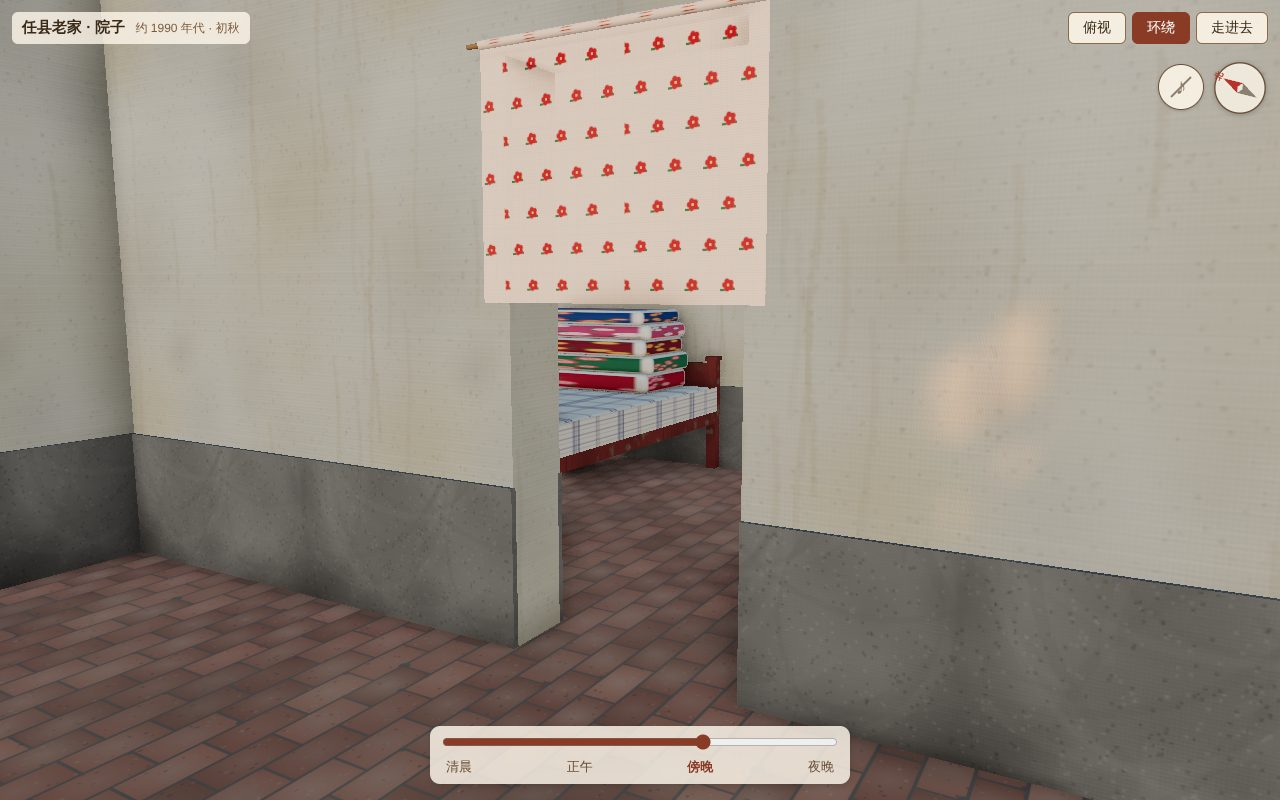
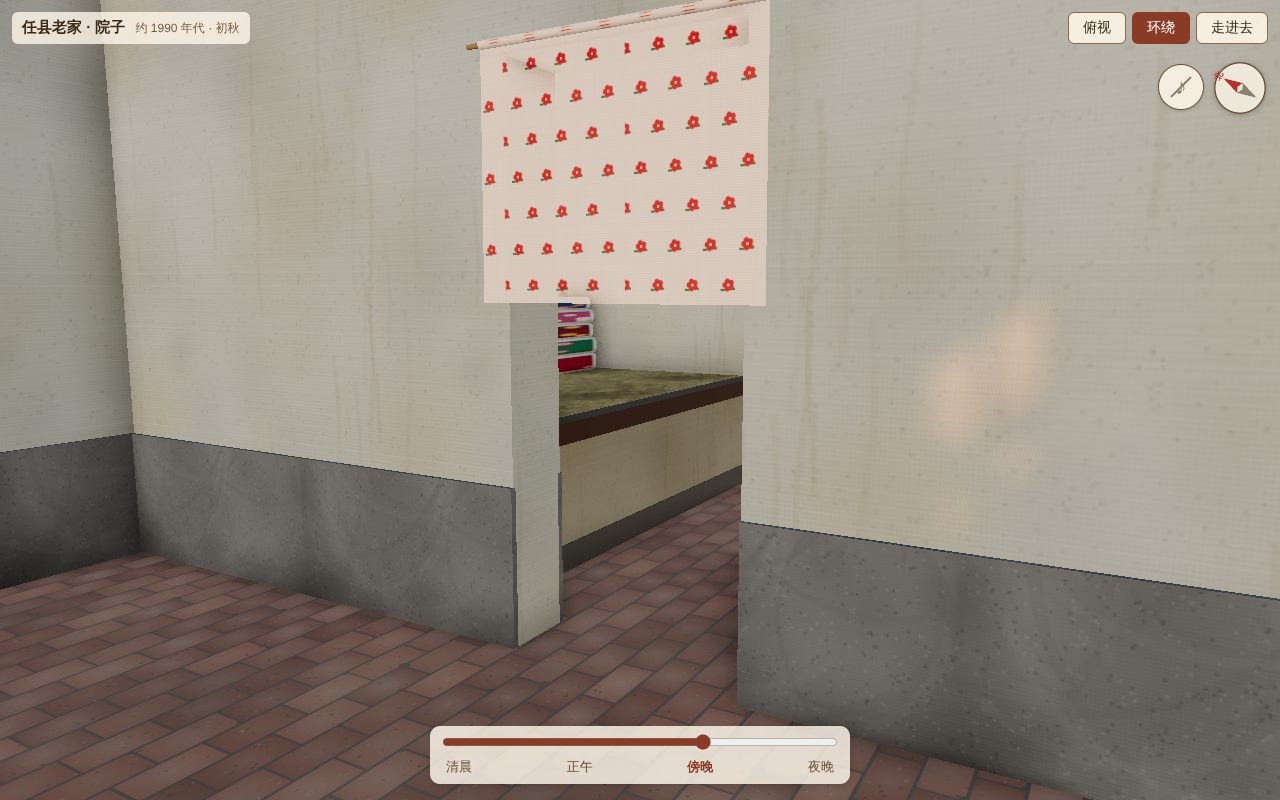
里屋改回第一版的炕（木头床也不对）
- 炕：西顶隔墙、东顶东墙、北顶后墙，从北墙往南 1.85 m、高 0.62 m；炕席、炕沿木头、炕脸抹灰
- 被子东头靠后墙摞着，两个“喜”字枕头在被子上；拉线开关回到炕头前沿上方（z = 1.45）
- 墙面、水泥墙裙、旧砖地、窗、海报、水缸、蜡烛器具都不变
- 更新 spec（v22）、CLAUDE.md、平面图、截图

Claude-Session: https://claude.ai/code/session_01HJLasCaBTePKwEqSFahTsZ

Changed region(s): [[0.4375, 0.3438, 0.5938, 0.7188]]

diff --git a/src/interiors/northWest.js b/src/interiors/northWest.js
@@ -11,7 +11,7 @@ import { createWaterVat } from '../yard/waterVat.js';
  * 西北屋室内（挂在 interior-anchor-west 上；坐标原点 = 室内西北角、地坪面，+x 东、+z 南）：
  * - 墙刷大白，年深日久发黄发脏；墙根往上 0.55 m 抹水泥；地面铺磨旧的淡红砖
  * - 一道隔墙把屋子分成西边的外屋（六成）和东边的里屋（四成），隔墙上一个小门洞，挂半截白布门帘（织着小红花），人走过去会被撩开
- * - 里屋北边一张老木头床，西头挨着隔墙、东头挨着东墙；铺着褥子和老粗布床单，床尾摞着几床八九十年代的缎子被面棉花被，床头两个枕头
+ * - 里屋北边一铺炕（西顶隔墙、东顶东墙、北顶后墙），铺炕席，炕沿一根木头；东头靠后墙叠着几床八九十年代的缎子被面棉花被和两个枕头
  * - 床头隔墙上一个拉线开关，拉一下屋顶的灯泡亮（15 瓦上下的白炽灯，昏黄），再拉一下灭；这面墙上贴着三张八九十年代的女明星海报（画的，不是真人）
  * - 南墙：西南角一口水缸，往东两台做蜡烛的器具（按用户照片），东头煤球炉 + 一锅化开的蜡；南墙上一扇窗；南墙和那片顶棚被烟火熏黑
  */
@@ -172,31 +172,40 @@ function floorTex() {
   );
 }
 
-/** 老粗布床单：白底，蓝、红细条交织成格子，洗得发旧 */
-function sheetTex() {
+/** 炕席：高粱秆/苇子篾编的人字纹，发黄发旧 */
+function reedMat() {
   return canvasTex(
     256,
     256,
     (g, w, h) => {
-      const r = rng(43);
-      g.fillStyle = '#e8e2d4';
+      const r = rng(11);
+      g.fillStyle = '#c4a466';
       g.fillRect(0, 0, w, h);
-      const stripes = (vertical) => {
-        for (const [pos, wd, col] of [[20, 10, '58,86,140'], [36, 4, '170,50,50'], [46, 10, '58,86,140'], [148, 6, '58,86,140'], [160, 3, '170,50,50']]) {
-          g.fillStyle = `rgba(${col},0.55)`;
-          if (vertical) g.fillRect(pos, 0, wd, h);
-          else g.fillRect(0, pos, w, wd);
+      const s = 16; // 一根篾子宽
+      for (let y = 0; y < h; y += s / 2) {
+        for (let x = 0; x < w; x += s) {
+          const dir = (Math.floor(x / s) + Math.floor(y / (s / 2))) % 4 < 2;
+          const k = 0.85 + r() * 0.25;
+          g.fillStyle = `rgb(${206 * k},${170 * k},${104 * k})`;
+          g.save();
+          g.translate(x + s / 2, y + s / 4);
+          g.rotate(dir ? Math.PI / 4 : -Math.PI / 4);
+          g.fillRect(-s * 0.7, -s * 0.2, s * 1.4, s * 0.4);
+          g.strokeStyle = 'rgba(80,60,30,0.35)';
+          g.strokeRect(-s * 0.7, -s * 0.2, s * 1.4, s * 0.4);
+          g.restore();
         }
-      };
-      stripes(true);
-      stripes(false);
-      // 粗布的纱线疙瘩
-      for (let i = 0; i < 3000; i++) {
-        g.fillStyle = r() > 0.5 ? 'rgba(255,255,250,0.12)' : 'rgba(120,110,90,0.1)';
-        g.fillRect(r() * w, r() * h, 1 + r() * 2, 1);
+      }
+      // 睡出来的油亮、发暗的地方
+      for (let i = 0; i < 30; i++) {
+        const gr = g.createRadialGradient(r() * w, r() * h, 0, r() * w, r() * h, 20 + r() * 60);
+        gr.addColorStop(0, 'rgba(90,60,30,0.18)');
+        gr.addColorStop(1, 'rgba(90,60,30,0)');
+        g.fillStyle = gr;
+        g.fillRect(0, 0, w, h);
       }
     },
-    { repeat: [6, 3.5] }, // 褥子是 0..1 UV：约 0.45 m 一格
+    { repeat: [2.6, 2.2] },
   );
 }
 
@@ -765,64 +774,25 @@ export function createNorthWestInterior() {
   hemTop.position.set(cx, dh + 0.03, dz);
   group.add(hemTop);
 
-  // —— 木头床：靠北墙，西头挨着隔墙、东头挨着东墙；旧枣红漆，床头板高、床尾板低 ——
-  const BD = R.bed;
-  const bx0 = IX0 + tc + 0.005;
-  const bx1 = IX1 - tc - 0.005;
-  const bz0 = tc + 0.01;
-  const bz1 = bz0 + BD.width;
-  const topY = BD.height; // 床板面
-  const wood = mat('wood');
-  const P = 0.065; // 床腿（立柱）见方
-  const solidOff = { solid: false };
-  // 四根立柱：床头（西）两根到床头板顶，床尾（东）两根到床尾板顶
-  for (const [x, top] of [[bx0, BD.head], [bx1 - P, BD.foot]]) {
-    for (const z of [bz0, bz1 - P]) {
-      group.add(box(x, x + P, 0, top, z, z + P, wood, solidOff));
-      group.add(box(x - 0.008, x + P + 0.008, top, top + 0.025, z - 0.008, z + P + 0.008, wood, solidOff)); // 柱头
-    }
-  }
-  // 床帮：前后两根大方子，两头两根横撑
-  group.add(box(bx0 + P, bx1 - P, topY - 0.17, topY - 0.03, bz1 - 0.05, bz1, wood, solidOff));
-  group.add(box(bx0 + P, bx1 - P, topY - 0.17, topY - 0.03, bz0, bz0 + 0.05, wood, solidOff));
-  for (const x of [bx0 + P, bx1 - P - 0.05]) group.add(box(x, x + 0.05, topY - 0.17, topY - 0.03, bz0 + P, bz1 - P, wood, solidOff));
-  // 床板：几块宽木板横着铺
-  {
-    const plank = mat('oldWood');
-    const n = 6;
-    const L = bx1 - bx0 - 2 * P;
-    for (let i = 0; i < n; i++) {
-      const x0 = bx0 + P + (i * L) / n;
-      group.add(box(x0 + 0.004, x0 + L / n - 0.004, topY - 0.03, topY, bz0 + 0.05, bz1 - 0.05, plank, solidOff));
-    }
-  }
-  // 床头板（挨着隔墙）、床尾板（挨着东墙）：框 + 中间一块芯板
-  for (const [x, top] of [[bx0, BD.head], [bx1 - P, BD.foot]]) {
-    const xc = x + P / 2;
-    group.add(box(xc - 0.018, xc + 0.018, topY + 0.04, top - 0.02, bz0 + P, bz1 - P, wood, solidOff));
-    group.add(box(xc - 0.025, xc + 0.025, top - 0.08, top - 0.02, bz0 + P, bz1 - P, wood, solidOff)); // 上横档
-    group.add(box(xc - 0.025, xc + 0.025, topY + 0.02, topY + 0.07, bz0 + P, bz1 - P, wood, solidOff)); // 下横档
-  }
-  // 褥子 + 老粗布床单（前沿垂下来一截）
-  const sheetMat = new THREE.MeshStandardMaterial({ map: sheetTex(), roughness: 0.95 });
-  {
-    const mx0 = bx0 + P + 0.01;
-    const mx1 = bx1 - P - 0.01;
-    const pad = new THREE.Mesh(new RoundedBoxGeometry(mx1 - mx0, 0.07, BD.width - 0.04, 3, 0.03), sheetMat);
-    pad.position.set((mx0 + mx1) / 2, topY + 0.035, (bz0 + bz1) / 2);
-    pad.castShadow = pad.receiveShadow = true;
-    group.add(pad);
-    const drape = new THREE.Mesh(new THREE.PlaneGeometry(mx1 - mx0, 0.16), sheetMat);
-    drape.position.set((mx0 + mx1) / 2, topY - 0.01, bz1 + 0.012);
-    drape.receiveShadow = true;
-    group.add(drape);
-  }
-  // 挡人：一个看不见的盒子
-  const bedBlock = box(bx0, bx1, 0, topY + 0.07, bz0, bz1, new THREE.MeshBasicMaterial({ visible: false }));
-  bedBlock.name = 'wooden-bed';
-  group.add(bedBlock);
+  // —— 炕 ——
+  const K = R.kang;
+  // 炕：西顶隔墙、东顶东墙、北顶后墙；炕脸抹灰（比墙面略暗）
+  const kang = box(IX0 + tc, IX1 - tc, 0, K.height, tc, K.depth, new THREE.MeshStandardMaterial({ map: plasterMap, color: 0xd2c6b2, roughness: 1 }));
+  kang.name = 'kang';
+  group.add(kang);
+  // 炕席
+  const reed = new THREE.MeshStandardMaterial({ map: reedMat(), roughness: 0.85 });
+  const mt = new THREE.Mesh(new THREE.BoxGeometry(IX1 - IX0 - 2 * tc - 0.02, 0.006, K.depth - tc - 0.06), reed);
+  mt.position.set((IX0 + IX1) / 2, K.height + 0.003, (K.depth + tc) / 2 - 0.02);
+  mt.receiveShadow = true;
+  group.add(mt);
+  // 炕沿：一根磨得发亮的木头
+  const edgeMat = new THREE.MeshStandardMaterial({ color: 0x5a3a24, roughness: 0.45 });
+  group.add(box(IX0 + tc, IX1 - tc, K.height - 0.07, K.height + 0.02, K.depth - 0.1, K.depth + 0.01, edgeMat, { solid: false }));
+  // 炕脸下沿踢脚的一道泥灰（脏）
+  group.add(box(IX0 + tc, IX1 - tc, 0, 0.12, K.depth, K.depth + 0.006, new THREE.MeshStandardMaterial({ color: 0x6e655a, roughness: 1 }), { solid: false }));
 
-  // —— 被子摞在床尾（东头），枕头在床头（西头，挨着隔墙） ——
+  // —— 被子：东头靠后墙叠着 ——
   {
     const covers = [
       ['#b3192a', '#e86a86', '#f3a6b4', 3],
@@ -831,21 +801,21 @@ export function createNorthWestInterior() {
       ['#d1547a', '#ffffff', '#f5b8c8', 9],
       ['#1f4f8a', '#e8506a', '#f4d27a', 13],
     ];
-    const qw = 1.15; // 叠好的长边，顺着床宽
+    const qw = 1.15;
     const qd = 0.55;
-    let y = topY + 0.07;
-    const qx = bx1 - P - qd / 2 - 0.04;
-    const qz = (bz0 + bz1) / 2;
+    let y = K.height + 0.006;
+    const cx0 = IX1 - tc - qw / 2 - 0.08;
     covers.forEach(([base, f1, f2, seed], i) => {
       const th = 0.12 - i * 0.008;
       const geo = new RoundedBoxGeometry(qw - i * 0.02, th, qd - i * 0.01, 3, 0.035);
       const q = new THREE.Mesh(geo, new THREE.MeshStandardMaterial({ map: quiltTex(base, f1, f2, seed), roughness: 0.6 }));
-      q.position.set(qx + (i % 2 ? 0.01 : -0.008), y + th / 2, qz + (i % 2 ? 0.012 : -0.01));
-      q.rotation.y = Math.PI / 2 + (i % 2 ? 1 : -1) * 0.012;
+      q.position.set(cx0 + (i % 2 ? 0.012 : -0.01), y + th / 2, tc + qd / 2 + 0.06 + (i % 2) * 0.01);
+      q.rotation.y = (i % 2 ? 1 : -1) * 0.012;
       q.castShadow = q.receiveShadow = true;
       group.add(q);
       y += th - 0.004;
     });
+    // 两个枕头摞在被子上
     const pillowTex = canvasTex(128, 64, (g, w, h) => {
       g.fillStyle = '#f0ebe0';
       g.fillRect(0, 0, w, h);
@@ -858,14 +828,14 @@ export function createNorthWestInterior() {
       g.textBaseline = 'middle';
       g.fillText('喜', w / 2, h / 2);
     });
-    for (const dzp of [-0.32, 0.32]) {
+    for (let i = 0; i < 2; i++) {
       const p = new THREE.Mesh(new RoundedBoxGeometry(0.55, 0.1, 0.32, 3, 0.045), new THREE.MeshStandardMaterial({ map: pillowTex, roughness: 0.8 }));
-      p.rotation.y = Math.PI / 2;
-      p.position.set(bx0 + P + 0.22, topY + 0.12, qz + dzp);
+      p.position.set(cx0 - 0.15 + i * 0.32, y + 0.05, tc + 0.25);
       p.castShadow = p.receiveShadow = true;
       group.add(p);
     }
   }
+
 
   // —— 开关这面墙（隔墙东面）上的海报 ——
   {

diff --git a/src/layout.js b/src/layout.js
@@ -68,7 +68,7 @@ export const NORTH_HOUSE = {
  * 坐标是室内坐标：原点 = 西北屋室内西北角（墙内侧）、地坪面；+x 东、+z 南、+y 上（见 src/interiors/README.md）。
  * 室内净空 7.14 m × 4.52 m × 2.9 m。进屋门在外屋南墙；隔墙上一个小门洞通里屋，门洞挂半截白布门帘。
  * 墙：刷大白，年深日久发黄发脏；墙根往上 0.55 m 抹水泥（外屋、里屋都是）。地面铺磨旧的淡红砖。
- * 里屋：北边一张木头床（东西两头都挨着墙），隔墙上拉线开关和几张女明星海报；南墙下西南角一口水缸，往东一排做蜡烛的器具，南墙被熏黑。
+ * 里屋：北边一铺炕（东西两头都顶着墙），隔墙上拉线开关和几张女明星海报；南墙下西南角一口水缸，往东一排做蜡烛的器具，南墙被熏黑。
  */
 export const WEST_ROOM = {
   origin: { x: NORTH_HOUSE.rect.x0 + NORTH_HOUSE.wall, z: NORTH_HOUSE.rect.z0 + NORTH_HOUSE.wall }, // 室内原点的世界坐标
@@ -77,8 +77,8 @@ export const WEST_ROOM = {
   innerDoor: { z: 2.55, width: 0.8, height: 1.9 }, // 隔墙上的小门洞（z 为中心）
   curtain: { drop: 0.78 }, // 白布门帘长度（门洞高的四成左右）
   dado: 0.55, // 墙根抹水泥的高度
-  bed: { width: 1.5, height: 0.48, head: 0.95, foot: 0.72 }, // 木头床：靠北墙，东西两头挨着墙（长度 = 里屋净宽）；height 为床板面高，head/foot 为床头板、床尾板顶高
-  pullSwitch: { z: 1.0, y: 2.05, cordEnd: 1.2 }, // 拉线开关：装在隔墙东面（床头这边），灯绳垂到离地 1.2 m
+  kang: { depth: 1.85, height: 0.62 }, // 炕：西顶隔墙、东顶东墙、北顶后墙；从北墙往南 1.85 m，高 0.62 m
+  pullSwitch: { z: 1.45, y: 2.05, cordEnd: 1.2 }, // 拉线开关：装在隔墙东面（炕头这边），灯绳垂到离地 1.2 m
   bulb: { x: 5.76, z: 2.4, drop: 0.55 }, // 里屋顶上的灯泡（15 W 左右的白炽灯），吊下来 0.55 m
   // 隔墙东面（开关这面墙）贴的海报：z 为中心、y 为中心高度
   posters: [

diff --git a/docs/scene-spec.md b/docs/scene-spec.md
@@ -134,11 +134,10 @@
   - 顶棚白灰
 - **地面**：铺砖，不是新砖，是历经岁月磨损的淡红色旧砖（24 × 11.5 cm 错缝平铺，磨得发白、砖缝积土）（已确认）
 - **里屋（掀开门帘进去）**：
-  - **左手边（北边）是一张木头床**（已确认，原先说的炕、竹床都更正为木头床）：**往西挨着隔墙，往东挨着东墙**，靠北墙放
-    - 床宽（南北）**【待确认】** 1.5 m、床板面高 0.48 m；旧枣红漆的木头床，四根方立柱，床头板（西，挨隔墙）高 0.95 m、床尾板（东）0.72 m，几块宽木板做床板
-    - 床上铺褥子和老粗布床单（白底蓝红条格），前沿垂下来一截 **【待确认，Claude 加的】**
-    - **床上叠放着八九十年代的棉花被**（已确认）：大红、枣红、绿、粉、蓝几床缎子被面，带白被里，摞在床尾（东头）；床头两个绣“喜”字的枕头（已确认）
-  - **床头（靠隔墙这边）墙上一个拉线开关**（已确认）：白色胶木圆盒，一根白棉灯绳垂到离地约 1.2 m，下头一个小木坠；一根明线顺着墙、顶棚走到灯头
+  - **左手边（北边）是炕**（已确认；中间试过竹床、木头床，用户最后定为第一版的炕）：西顶隔墙、东顶东墙、北顶后墙
+    - 尺寸 **【待确认】**：从北墙往南 1.85 m、高 0.62 m；炕面铺发黄的炕席（人字纹），炕沿一根磨亮的木头，炕脸抹灰
+    - **炕上叠放着八九十年代的棉花被**（已确认）：大红、枣红、绿、粉、蓝几床缎子被面，带白被里，东头靠后墙摞着；最上面两个绣“喜”字的枕头（已确认）
+  - **炕头（靠隔墙这边）墙上一个拉线开关**（已确认）：白色胶木圆盒，一根白棉灯绳垂到离地约 1.2 m，下头一个小木坠；一根明线顺着墙、顶棚走到灯头
     - **互动**：走到里屋灯绳旁出“拉灯”按钮（或按 E、或直接点灯绳）：咔哒一声，**屋顶的灯泡亮了，再拉就灭**
     - 灯泡：八九十年代的梨形白炽灯泡，约 15 瓦，昏黄的光（约 2400 K），吊在里屋顶棚正中，花线 + 黑胶木灯头；高画质下有阴影，光不透墙，但会从里屋的窗户照出去
     - 默认关着；夜里外屋那盏灯照旧亮着，里屋要自己拉开
@@ -224,6 +223,7 @@
 
 ## 修改记录
 
+- **v22**：里屋改回第一版的炕（木头床也不对）
 - **v21**：里屋的竹床改成木头床：东西两头都挨着墙，旧枣红漆，床头板、床尾板，铺褥子和老粗布床单
 - **v20**：西北屋室内按用户意见修改：墙面改成发黄发脏的旧大白 + 墙根 0.55 m 水泥墙裙；地面改成磨旧的淡红砖；外屋/里屋改为六四开；里屋南墙加一扇窗；炕改成床（v21：竹床再改成东西两头挨墙的木头床）；隔墙上贴三张女明星海报；里屋西南角加水缸
 - **v19**：西北屋室内第一部分：隔墙分外屋、里屋，门洞挂白布小红花门帘；里屋的炕和棉花被、拉线开关和 15 瓦灯泡（可拉灯）、南墙下一排做蜡烛的器具（按用户照片）、熏黑的南墙

diff --git a/CLAUDE.md b/CLAUDE.md
@@ -86,7 +86,7 @@ src/
     touch.js            手机：左下虚拟摇杆、滑动转头、轻点交互
     interact.js         走近时出现大按钮（压水/摘石榴/打枣/荡秋千/摸摸大黄/里屋拉灯），按 E 执行第一个；直接点画面会选点击处 90 像素内够得着的目标；“兜里”计数
   interiors/            室内细节，见 interiors/README.md；挂在 interior-anchor-* 上，尺寸在 layout.WEST_ROOM 等（室内坐标）
-    northWest.js        西北屋：隔墙分外屋（六）/里屋（四），门洞白布门帘（顶点动画，人走近被撩开）；墙面旧大白 + 墙根 0.55 m 水泥墙裙（finish() 给每面墙贴两层，外屋也用）、磨旧淡红砖地面；里屋的木头床（东西两头挨墙，旧枣红漆，褥子 + 老粗布床单）、被子、拉线开关 + 15 瓦灯泡（lamp.pull() 开关，高画质点光源带阴影）、隔墙上三张画的女明星海报、西南角水缸（复用 yard/waterVat.js）、两台做蜡烛的器具（按用户照片）+ 煤球炉、熏黑的南墙（窗洞处挖空）和顶棚
+    northWest.js        西北屋：隔墙分外屋（六）/里屋（四），门洞白布门帘（顶点动画，人走近被撩开）；墙面旧大白 + 墙根 0.55 m 水泥墙裙（finish() 给每面墙贴两层，外屋也用）、磨旧淡红砖地面；里屋的炕（东西两头顶墙，炕席、炕沿；中间试过竹床、木头床，用户都否了）、被子、拉线开关 + 15 瓦灯泡（lamp.pull() 开关，高画质点光源带阴影）、隔墙上三张画的女明星海报、西南角水缸（复用 yard/waterVat.js）、两台做蜡烛的器具（按用户照片）+ 煤球炉、熏黑的南墙（窗洞处挖空）和顶棚
   ui/                   样式；timeSlider.js 时间滑块；hud.js 提示/操作说明/兜里计数/准星；compass.js 指北针；musicButton.js 音乐开关（指北针左边，偏好存在 localStorage 'laojia-bgm-v2'）
 scripts/
   gen-plan.mjs          由 layout.js 生成 docs/plan.svg
@@ -134,7 +134,7 @@ docs/
 
 之后的迭代（各屋室内）：先改 docs/scene-spec.md，室内放 src/interiors/，挂到 interior-anchor-* 上；每次改完照旧截图自检、开 PR。
 
-第 10 轮：西北屋室内第一部分（隔墙分外屋/里屋六四开、门帘、旧大白墙 + 水泥墙裙、旧砖地；里屋的木头床/被子/拉线开关灯/海报/水缸/做蜡烛的器具/熏黑的南墙、南窗）。外屋陈设、东北屋、厨房室内还没做。
+第 10 轮：西北屋室内第一部分（隔墙分外屋/里屋六四开、门帘、旧大白墙 + 水泥墙裙、旧砖地；里屋的炕/被子/拉线开关灯/海报/水缸/做蜡烛的器具/熏黑的南墙、南窗）。外屋陈设、东北屋、厨房室内还没做。
 
 ## 待确认 / 已做的假设
 
